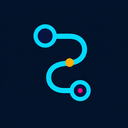
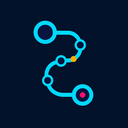
docs: show proxy hops in scanr mark

Changed region(s): [[0.25, 0.1562, 0.75, 0.8438]]

diff --git a/assets/brand/README.md b/assets/brand/README.md
@@ -1,8 +1,9 @@
 # scanr brand
 
-The mark follows one scanning pulse through an S-shaped proxy route. Cyan is the path,
-amber is the probe in flight, and magenta is the endpoint state. The deep-ink tile keeps
-the mark legible on light and dark backgrounds.
+The mark follows one scanning pulse through an S-shaped proxy route. The three smaller
+nodes are proxy hops between the larger endpoints. Cyan is the path, amber is the probe
+in flight, and magenta is the endpoint state. The deep-ink tile keeps the mark legible
+on light and dark backgrounds.
 
 ## Assets
 

diff --git a/CHANGELOG.md b/CHANGELOG.md
@@ -18,7 +18,7 @@ the same promise from 1.0. The path there is `ROADMAP.md`.
 
 - Plans and runs suggest the `ssh` profiles when a loopback SOCKS5 transport may be an
   `ssh -D` listener; `transport test` gives the same advice after measuring one.
-- A reusable scanr mark, compact icon and documented colour palette under
+- A reusable multi-hop scanr mark, compact icon and documented colour palette under
   `assets/brand/`.
 
 ### Changed

diff --git a/README.md b/README.md
@@ -1,5 +1,5 @@
 <p align="center">
-  <img src="assets/brand/scanr-mark.png" width="168" alt="scanr: a signal following an S-shaped route between two network nodes">
+  <img src="assets/brand/scanr-mark.png" width="168" alt="scanr: a probe following an S-shaped route through three proxy hops">
 </p>
 
 <h1 align="center">scanr</h1>
